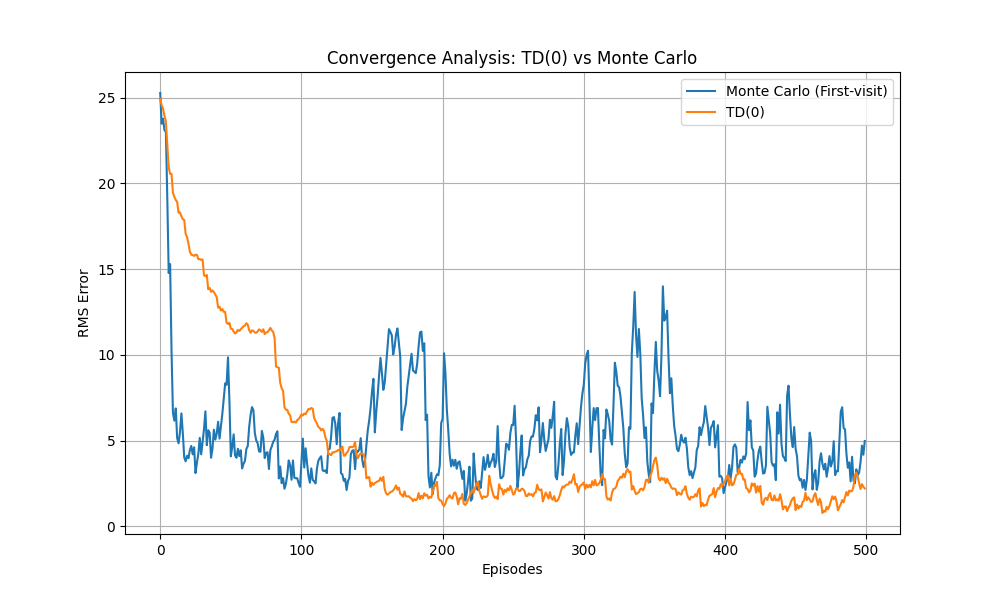
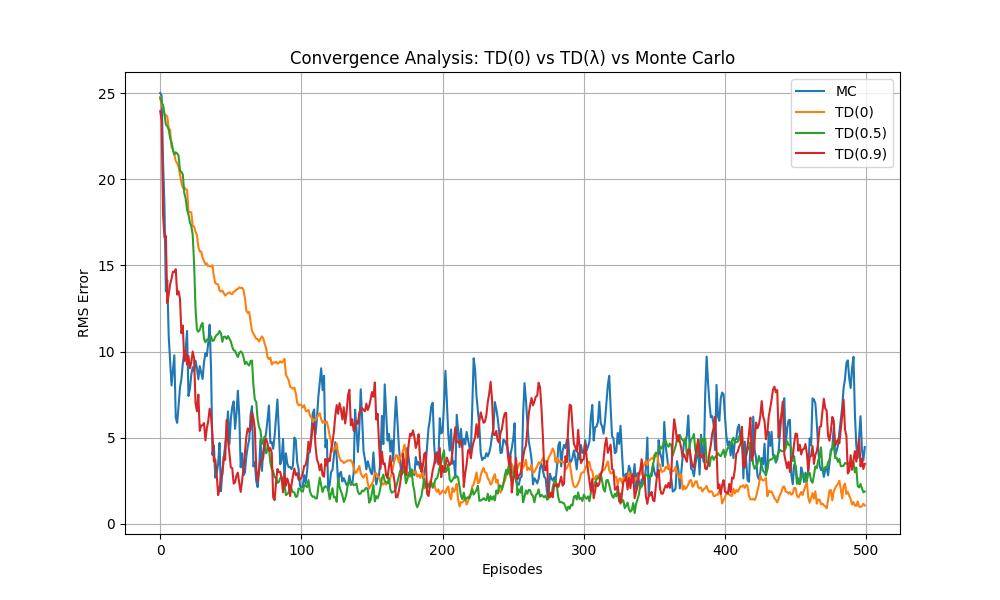
Added TD(Lambda) functionality

Changed region(s): [[0.093, 0.06, 0.899, 0.9], [0.093, 0.3, 0.124, 0.33]]

diff --git a/algorithms/td_vs_mc/compare.py b/algorithms/td_vs_mc/compare.py
@@ -48,6 +48,36 @@ class TDZeroAgent(ValueEstimationAgent):
             
         self.v_table[r, c] += self.alpha * (target - self.v_table[r, c])
 
+class TDLambdaAgent(ValueEstimationAgent):
+    def __init__(self, env, alpha=0.1, gamma=0.99, lbda=0.9):
+        super().__init__(env, alpha, gamma)
+        self.lbda = lbda
+        self.e_table = np.zeros((env.height, env.width))
+
+    def reset_traces(self):
+        self.e_table.fill(0)
+
+    def update(self, state, reward, next_state, done):
+        r, c = int(state[0]), int(state[1])
+        nr, nc = int(next_state[0]), int(next_state[1])
+        
+        # TD error
+        if done:
+            td_target = reward
+        else:
+            td_target = reward + self.gamma * self.v_table[nr, nc]
+        
+        td_error = td_target - self.v_table[r, c]
+        
+        # Update eligibility trace (replacing trace)
+        self.e_table[r, c] = 1.0
+        
+        # Update all values based on current TD error and traces
+        self.v_table += self.alpha * td_error * self.e_table
+        
+        # Decay traces
+        self.e_table *= self.gamma * self.lbda
+
 def compute_true_v(env, gamma=0.99, threshold=1e-6):
     """Compute true value function for a random policy using iterative policy evaluation."""
     v = np.zeros((env.height, env.width))
@@ -79,49 +109,56 @@ def run_comparison(episodes=500):
     env = GridWorldGym()
     true_v = compute_true_v(env)
     
-    mc_agent = MonteCarloAgent(env)
-    td_agent = TDZeroAgent(env)
+    agents = {
+        'MC': MonteCarloAgent(env),
+        'TD(0)': TDZeroAgent(env),
+        'TD(0.5)': TDLambdaAgent(env, lbda=0.5),
+        'TD(0.9)': TDLambdaAgent(env, lbda=0.9)
+    }
     
-    mc_errors = []
-    td_errors = []
+    errors = {name: [] for name in agents}
     
     for ep in range(episodes):
-        # Monte Carlo Episode
+        # Monte Carlo Agent (Batch update)
         state, info = env.reset()
         trajectory = []
         done = False
         while not done:
-            action = mc_agent.get_action(state)
+            action = agents['MC'].get_action(state)
             next_state, reward, terminated, truncated, _ = env.step(action)
             trajectory.append((state, reward))
             state = next_state
             done = terminated or truncated
-        mc_agent.update(trajectory)
+        agents['MC'].update(trajectory)
         
-        # TD(0) Episode
-        state, info = env.reset()
-        done = False
-        while not done:
-            action = td_agent.get_action(state)
-            next_state, reward, terminated, truncated, _ = env.step(action)
-            td_agent.update(state, reward, next_state, terminated or truncated)
-            state = next_state
-            done = terminated or truncated
+        # TD-based Agents (Online updates)
+        for name, agent in agents.items():
+            if name == 'MC': continue
             
-        # Record RMS Error
-        mc_rmse = np.sqrt(np.mean((mc_agent.v_table - true_v)**2))
-        td_rmse = np.sqrt(np.mean((td_agent.v_table - true_v)**2))
-        
-        mc_errors.append(mc_rmse)
-        td_errors.append(td_rmse)
+            state, info = env.reset()
+            if hasattr(agent, 'reset_traces'):
+                agent.reset_traces()
+            done = False
+            while not done:
+                action = agent.get_action(state)
+                next_state, reward, terminated, truncated, _ = env.step(action)
+                agent.update(state, reward, next_state, terminated or truncated)
+                state = next_state
+                done = terminated or truncated
+            
+        # Record RMS Error for all agents
+        for name, agent in agents.items():
+            rmse = np.sqrt(np.mean((agent.v_table - true_v)**2))
+            errors[name].append(rmse)
         
     # Plot results
     plt.figure(figsize=(10, 6))
-    plt.plot(mc_errors, label='Monte Carlo (First-visit)')
-    plt.plot(td_errors, label='TD(0)')
+    for name, err_list in errors.items():
+        plt.plot(err_list, label=name)
+        
     plt.xlabel('Episodes')
     plt.ylabel('RMS Error')
-    plt.title('Convergence Analysis: TD(0) vs Monte Carlo')
+    plt.title('Convergence Analysis: TD(0) vs TD(λ) vs Monte Carlo')
     plt.legend()
     plt.grid(True)
     
@@ -131,11 +168,10 @@ def run_comparison(episodes=500):
     
     # Print final V-tables
     print("\nTrue Value Function:")
-    print(np.round(true_v, 2))
-    print("\nFinal MC Value Function:")
-    print(np.round(mc_agent.v_table, 2))
-    print("\nFinal TD(0) Value Function:")
-    print(np.round(td_agent.v_table, 2))
+    print(np.round(true_v, 2)) 
+    for name, agent in agents.items():
+        print(f"\nFinal {name} Value Function:")
+        print(np.round(agent.v_table, 2))
 
 if __name__ == "__main__":
     run_comparison()
